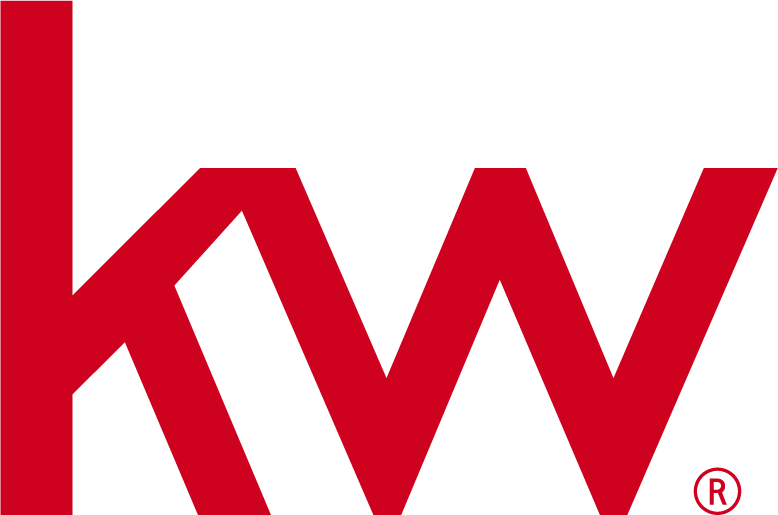
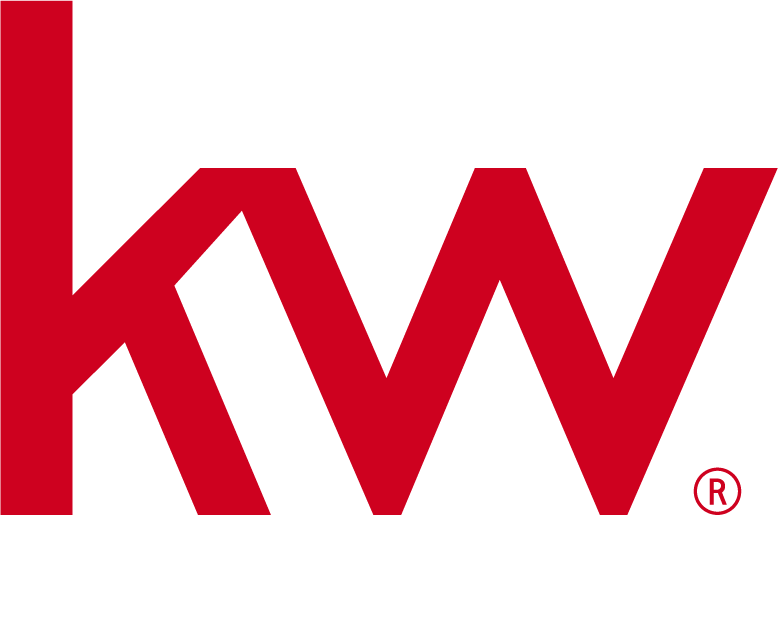
fix: varios ajustes de agentes, blog y home
- Logo KW-RED.png (con relleno transparente para centrado optico correcto)
  como marca de esquina en la ficha del agente y el encabezado del blog;
  en agentes Luxury se recorre para no cruzarse con el liston diagonal.
- Texto "Mostrando agentes de..." en /agentes: quita el layout flex que
  partia el texto de forma desordenada en movil, ahora hace wrap normal.
- "Reconocimientos internacionales" -> "Reconocimientos Internacionales".
- Carruseles de Reconocimientos y Aliados KW Mexico ya no se detienen al
  pasar el mouse (se mantiene la pausa por foco de teclado, accesibilidad).

Changed region(s): [[0.0925, 0.2485, 1.0, 1.0], [0.0, 0.8078, 0.0925, 1.0], [0.8946, 0.901, 0.9563, 1.0]]

diff --git a/src/features/website/components/agents/AgentDetailPage.tsx b/src/features/website/components/agents/AgentDetailPage.tsx
@@ -1,3 +1,4 @@
+import Image from 'next/image'
 import Link from 'next/link'
 import { ArrowLeft, Bath, BedDouble, Building2, Mail, MapPin, Phone, Ruler } from 'lucide-react'
 import type { AgentPropertiesResponse, Property } from '../../properties/types'
@@ -71,7 +72,22 @@ export default function AgentDetailPage({ response }: { response: AgentPropertie
                 <section className="relative mt-7 overflow-hidden rounded-3xl border border-neutral-200 bg-white shadow-lg">
                     {agent.Luxury === 1 && <LuxuryRibbon />}
                     <div className="absolute inset-x-0 top-0 h-2 bg-kw-primary" />
-                    <div className="absolute -right-8 -top-20 select-none font-heading text-[15rem] font-black leading-none text-neutral-100" aria-hidden="true">KW</div>
+                    {/* Cuando el agente es Luxury, el listón diagonal (LuxuryRibbon,
+                        top-5 -right-11 w-40 rotado 45°) ocupa justo esta esquina. Su
+                        silueta rotada alcanza como máximo ~100px desde el borde derecho
+                        (envolvente de un rectángulo de 160x24px rotado 45°), así que se
+                        recorre el logo a right-28 (112px, con margen) solo en ese caso —
+                        misma altura (top-5) que el resto, nomás se mueve en horizontal.
+                        z-30 además lo deja siempre por encima del listón (z-20) por si
+                        llegan a rozarse. */}
+                    <Image
+                        src="/KW-RED.png"
+                        alt=""
+                        width={778}
+                        height={623}
+                        className={`pointer-events-none absolute top-5 z-30 h-9 w-auto select-none sm:h-11 ${agent.Luxury === 1 ? 'right-28' : 'right-5'}`}
+                        aria-hidden="true"
+                    />
 
                     <div className="relative flex flex-col items-center gap-7 px-6 py-10 text-center md:flex-row md:px-10 md:py-12 md:text-left lg:px-14">
                         {agent.Agent_Photo_url ? (

diff --git a/src/features/website/components/agents/AgentsSection.tsx b/src/features/website/components/agents/AgentsSection.tsx
@@ -109,8 +109,12 @@ export default function AgentsSection() {
 
             {nearbyId && nearestMarketCenter && (
                 <div className="flex flex-col items-center justify-between gap-3 rounded-xl border border-kw-primary/20 bg-kw-primary/5 px-4 py-3 text-sm text-kw-secondary sm:flex-row">
-                    <span className="flex items-center gap-2 text-center sm:text-left">
-                        <Navigation size={16} className="shrink-0 text-kw-primary" />
+                    <span className="text-center sm:text-left">
+                        {/* Ícono inline dentro del texto (no flex) para que el párrafo
+                            haga wrap normal palabra por palabra en móvil — con flex,
+                            el ícono y cada fragmento de texto se armaban como cajas
+                            separadas y el wrap salía desordenado. */}
+                        <Navigation size={16} className="mr-1.5 inline-block align-text-bottom text-kw-primary" aria-hidden="true" />
                         Mostrando agentes de <strong>{nearestMarketCenter.Market_Center}</strong>, el Market Center más cercano a ti
                         {nearestDistanceKm !== null && ` (a ${nearestDistanceKm < 10 ? nearestDistanceKm.toFixed(1) : Math.round(nearestDistanceKm)} km)`}.
                     </span>

diff --git a/src/features/website/blog/components/BlogListPage.tsx b/src/features/website/blog/components/BlogListPage.tsx
@@ -1,3 +1,4 @@
+import Image from 'next/image'
 import Link from 'next/link'
 import { ChevronLeft, ChevronRight } from 'lucide-react'
 import type { PaginatedBlogPosts } from '../types'
@@ -8,9 +9,16 @@ export function BlogListPage({ posts }: { posts: PaginatedBlogPosts }) {
 
   return (
     <main className="bg-neutral-50 pb-20">
-      <section className="bg-kw-secondary py-16 sm:py-20">
+      <section className="relative bg-kw-secondary py-16 sm:py-20">
+        <Image
+          src="/KW-RED.png"
+          alt=""
+          width={778}
+          height={623}
+          className="pointer-events-none absolute top-6 right-6 h-10 w-auto select-none sm:h-12"
+          aria-hidden="true"
+        />
         <div className="mx-auto max-w-4xl px-5 text-center lg:px-8">
-          <p className="mb-3 text-xs font-bold tracking-[0.3em] text-kw-primary uppercase">KW México</p>
           <h1 className="font-heading text-4xl font-extrabold text-white sm:text-5xl">Blog</h1>
           <p className="mt-4 text-base text-white/70 sm:text-lg">
             Historias, guías y tendencias del mercado inmobiliario de la mano de nuestros agentes.

diff --git a/src/features/admin/homepage/section-defaults.ts b/src/features/admin/homepage/section-defaults.ts
@@ -1,7 +1,7 @@
 export const sectionDefaults: Record<string, Record<string, unknown>> = {
   hero: { title: 'Encuentra la casa de', titleAccent: 'tus sueños', subtitle: 'El camino a tu nuevo hogar empieza aquí con los expertos.', imageUrl: '/Fondo_New_Natural.png', imageAlt: 'Residencia contemporánea con alberca' },
   awards: {
-    title: 'Reconocimientos internacionales', iconUrl: '/award-icon.png',
+    title: 'Reconocimientos Internacionales', iconUrl: '/award-icon.png',
     items: [
       { eyebrow: 'KW Worldwide', title: '#1 Growth Share', detail: 'A nivel mundial (2024)' }, { eyebrow: 'KW Worldwide', title: '#1 Unidades cerradas', detail: 'A nivel mundial (2024)' },
       { eyebrow: 'KW Worldwide', title: '#1 Comisiones brutas', detail: 'A nivel mundial (2024)' }, { eyebrow: 'Presidents Award por KWW', title: 'Región con más Market Centers', detail: 'Aperturados (2024)' },

diff --git a/src/features/website/components/home/AwardsSection.tsx b/src/features/website/components/home/AwardsSection.tsx
@@ -36,7 +36,7 @@ export default function AwardsSection({ content }: { content?: HomepageSection }
   return (
     <section data-aos-skip aria-labelledby="awards-title" className="overflow-hidden border-y border-white/10 bg-kw-secondary py-14 sm:py-16">
       <div className="mx-auto mb-9 max-w-7xl px-6 text-center lg:px-8">
-        <h2 id="awards-title" className="font-heading text-3xl font-extrabold text-white sm:text-4xl">{content?.title || 'Reconocimientos internacionales'}</h2>
+        <h2 id="awards-title" className="font-heading text-3xl font-extrabold text-white sm:text-4xl">{content?.title || 'Reconocimientos Internacionales'}</h2>
         {content?.subtitle && <p className="mx-auto mt-3 max-w-3xl text-white/60">{content.subtitle}</p>}
       </div>
       <div className={styles.viewport}>

diff --git a/src/features/website/components/home/AboutSection.tsx b/src/features/website/components/home/AboutSection.tsx
@@ -10,7 +10,7 @@ export default function AboutSection({ content }: { content?: HomepageSection })
           <h2 id="about-title" className="font-heading text-4xl font-extrabold tracking-tight text-kw-secondary sm:text-5xl lg:text-6xl">
             <span className="inline-flex flex-wrap items-center">
               <span className="mr-3">{String(data?.title || '¿QUÉ ES')}</span>
-              <Image src="/KW-RED.png" alt="KW" width={778} height={515} className="h-[0.75em] w-auto" />
+              <Image src="/KW-RED.png" alt="KW" width={778} height={623} className="h-[0.9em] w-auto" />
               <span className="text-kw-primary">?</span>
             </span>
           </h2>

diff --git a/src/features/website/components/home/AlliesSection.tsx b/src/features/website/components/home/AlliesSection.tsx
@@ -43,7 +43,7 @@ export default function AlliesSection({ content }: { content?: HomepageSection }
         <h2 id="allies-title" className="font-heading text-3xl font-extrabold uppercase text-white sm:text-4xl lg:text-5xl">
           <span className="inline-flex flex-wrap items-center justify-center gap-x-3">
             {String(data?.title || 'Aliados')}
-            <Image src="/KW-RED.png" alt="KW" width={778} height={515} className="h-[0.75em] w-auto" />
+            <Image src="/KW-RED.png" alt="KW" width={778} height={623} className="h-[0.9em] w-auto" />
             {String(data?.titleSuffix || 'México')}
           </span>
         </h2>

diff --git a/src/features/website/components/home/AlliesSection.module.css b/src/features/website/components/home/AlliesSection.module.css
@@ -18,7 +18,6 @@
   padding-right: 1.5rem;
 }
 
-.viewport:hover .track,
 .viewport:focus-within .track {
   animation-play-state: paused;
 }

diff --git a/src/features/website/components/home/AwardsSection.module.css b/src/features/website/components/home/AwardsSection.module.css
@@ -18,7 +18,6 @@
   padding-right: 1rem;
 }
 
-.viewport:hover .track,
 .viewport:focus-within .track {
   animation-play-state: paused;
 }

diff --git a/CLAUDE.md b/CLAUDE.md
@@ -102,7 +102,11 @@ Cada uno tiene su propia escala de tintes/sombras (ver la imagen). El `--destruc
 
 **Tipografía:** el cliente entregó la licencia web de **Helvetica Neue LT Std** — es la ÚNICA tipografía del sitio completo (cuerpo, encabezados, navbar, cualquier sección), no hay distinción entre fuente de titulares y fuente de cuerpo como en un momento anterior del proyecto. No uses Rubik/Roboto/Montserrat/Inter ni ninguna otra — sin excepciones.
 
-Se carga con `next/font/local` en `app/layout.tsx` (variable `--font-helvetica`, mapeada tanto a `--font-heading` como a `--font-sans` en `globals.css` — ambos tokens de Tailwind resuelven a la misma familia). Los archivos `.woff2` viven en `src/fonts/helvetica-neue/` (convertidos desde los `.otf` originales con `fonttools ttLib.woff2`, con licencia de uso web entregada por el cliente — no son de Google Fonts ni de un repo público, no los reemplaces por una alternativa "parecida" si algún día faltan, pide los archivos de nuevo). Solo se registraron 4 pesos: Light (300), Roman (400), Medium (500, cubre también 600/semibold), Bold (700) — es el tope de peso en todo el sitio, no agregues `font-extrabold`/`font-black` (si aparecen, el navegador los recorta al Bold registrado, pero igual hay que evitarlos en el código). Para titulares grandes no-uppercase, combina `font-bold` con `tracking-tight`; los que ya van en mayúsculas usan `tracking-wide`/`tracking-[…]`, no tracking-tight.
+Se carga con `next/font/local` en `app/layout.tsx` (variable `--font-helvetica`, mapeada tanto a `--font-heading` como a `--font-sans` en `globals.css` — ambos tokens de Tailwind resuelven a la misma familia). Los archivos `.woff2` viven en `src/fonts/helvetica-neue/` (convertidos desde los `.otf` originales con `fonttools ttLib.woff2`, con licencia de uso web entregada por el cliente — no son de Google Fonts ni de un repo público, no los reemplaces por una alternativa "parecida" si algún día faltan, pide los archivos de nuevo). Solo se registraron 4 pesos: Light (300), Roman (400), Medium (500, cubre también 600/semibold), Bold (700) — es el tope de peso en todo el sitio, no agregues `font-extrabold`/`font-black` (si aparecen, el navegador los recorta al Bold registrado, pero igual hay que evitarlos en el código — todavía quedan varios sueltos de antes de esta migración, pendientes de la limpieza de tipografía que sigue en pausa). Para titulares grandes no-uppercase, combina `font-bold` con `tracking-tight`; los que ya van en mayúsculas usan `tracking-wide`/`tracking-[…]`, no tracking-tight.
+
+**Logotipo `KW-RED.png` en vez de la palabra "KW":** dos patrones de uso, según el caso —
+- **Inline con el texto** (título "¿Qué es KW?" en `AboutSection.tsx`, "Aliados KW México" en `AlliesSection.tsx`): reemplaza la palabra "KW" en medio de un encabezado, en `inline-flex items-center`, escalado en `em` para crecer junto con el texto. El archivo ya trae relleno transparente abajo para que su centro visual quede al 50% del lienzo, así `items-center` alinea bien sin ajustes manuales — no lo reemplaces por otra versión sin ese relleno o se vuelve a desalinear.
+- **Marca de esquina** (ficha de agente en `AgentDetailPage.tsx`, encabezado del blog en `BlogListPage.tsx`): logo suelto y `absolute` en la esquina superior derecha de la sección/tarjeta, sin mezclarse con texto (`top-X right-X`, alto fijo entre `h-9` y `h-12`, `pointer-events-none select-none aria-hidden`). En tarjetas donde también pueda aparecer `LuxuryRibbon` en esa misma esquina (ver más abajo), hay que correr el logo para que no se crucen — el comentario en `AgentDetailPage.tsx` trae el cálculo de la zona que ocupa el listón rotado.
 
 **Botones:** 4 variantes — Primary (relleno rojo), Secondary (relleno claro), Inverted (relleno oscuro), Outlined (solo borde).
 
